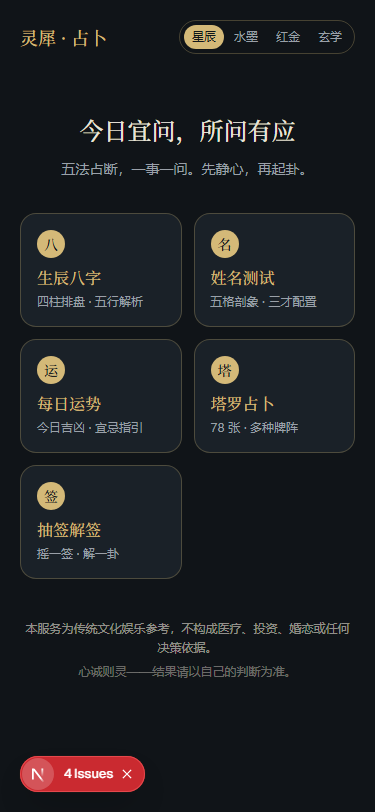
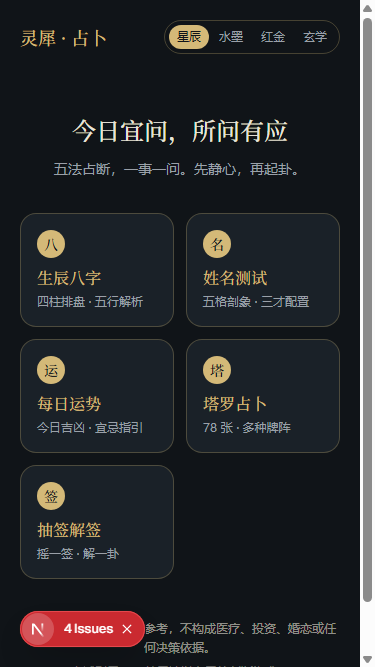
docs: 阶段4 收尾——CHANGELOG/L13 教训同步 + 移动端/分享按钮验证截图
- 完善 CHANGELOG：阶段 4 描述细化、L10 修正为 L13（PowerShell 关闭 safe-delete shim）
- NOTEBOOK/progress.md 与 learnings.md（L13）已同步
- 新增移动端验证截图：s4-{home,bazi,name,daily,tarot,lottery}-mobile*.png
- 新增分享按钮验证截图：s4-before-share.png / s4-after-share.png

diff --git a/CHANGELOG.md b/CHANGELOG.md
@@ -10,10 +10,10 @@
 - 项目初始化：Git 仓库（master 分支）、工程骨架、工作区记忆结构（2026-08-31）
 - Next.js 16 脚手架（TypeScript / Tailwind 4 / App Router / ESLint），静态导出配置（2026-08-31）
 - GitHub 私有仓库 diviner 创建并推送（commit 4a089ca，2026-08-31）
-- 阶段 1 设计系统：4 套主题（暗夜星辰/禅意水墨/国潮红金/赛博玄学）+ 首页 + 主题切换器 + 浏览器截图验证（commit b8a594d，2026-08-31）
+- 阶段 1 设计系统：4 套主题（暗夜星辰/禅意水墨/国潮红金/赛博玄学）+ 首页 + 主题切换器（桌面完整标签 / 移动端 2 字短标签）+ 浏览器截图验证（commit b8a594d，2026-08-31）
 - 阶段 2 占卜引擎：八字/姓名/每日运势/塔罗/抽签五引擎 + 内容库（752 字笔画、78 张塔罗、40 支签、12 生肖）+ 48 个 Vitest 单元测试 + 子代理交叉验收（commit 78f6901，2026-08-31）
 - 阶段 3 五玩法页面：5 个 `src/app/{bazi,name,daily,tarot,lottery}/page.tsx` + 4 个公共组件（PageShell/Field/Button/ResultCard） + globals.css 动画体系（wb-fade-up / wb-pop / wb-flip / wb-shake）+ 浏览器真实交互逐页验证截图（commit 9e724a1，2026-08-31）
-- 阶段 4 打磨：SEO 完整化（layout.tsx 全站 metadata + 5 个玩法 layout.tsx 页级 title/description/og:url + sitemap.xml + robots.txt + favicon.svg）、ShareButton 组件（Web Share API + clipboard fallback + 失败反馈）、prefers-reduced-motion 关闭动画、PageShell + 首页 footer 措辞优化（明确不构成医疗/投资/婚恋/决策依据）、ThemeToggle 移动端 2 字短标签适配、Viewport 配置 + 移动端 375px 逐页截图验证（commit 待定，2026-08-31）
+- 阶段 4 打磨：SEO 完整化（layout.tsx 全站 metadata + 5 个玩法目录级 server layout.tsx 页级 title/description/og:url + `sitemap.xml` + `robots.txt` + `favicon.svg`）、ShareButton 组件（Web Share API + clipboard fallback + 失败反馈）、`prefers-reduced-motion` 关闭动画、PageShell + 首页 footer 免责声明措辞优化、Viewport 配置 + 移动端 375px 逐页截图验证 + 分享按钮真实点击验证（commit 待定，2026-09-01）
 
 ### 修复
 
@@ -24,5 +24,12 @@
 ### 变更
 
 - .gitignore 增加 `/resources/tmp_*` 与 `/resources/shots/*-debug-*` 规则，本地排查临时文件不入库（2026-08-31）
-- 主题注册表新增 `short` 字段（2 字移动端标签）；ThemeToggle 用 sm:hidden / sm:inline 双标签切换（2026-08-31）
-- layout.tsx 新增 viewport（device-width + theme-color 暗/亮）+ 完整 metadata（title template / description / keywords / authors / robots / openGraph / twitter / icons / applicationName），sitemap.ts 与 robots.ts 增加 `export const dynamic = "force-static"` 适配 `output: export` 模式（2026-08-31）
+- layout.tsx 新增 viewport（device-width + theme-color 暗/亮）+ 完整 metadata（title template / description / keywords / authors / robots / openGraph / twitter / icons / applicationName），5 个玩法目录新增 server layout.tsx 提供独立 title/description（2026-09-01）
+
+## 教训索引
+
+- L1（2026-08-31）：初始化/恢复项目前必须先读 NORMS + AGENTS（NOTEBOOK/learnings.md）
+- L7（2026-08-31）：safe-delete 拦截 Node fs + bash rm，批量删除 >50 触发 guard（NOTEBOOK/learnings.md）
+- L8（2026-08-31）：agent-browser 自带 Chromium 启动失败时，手动 CDP Chrome + `agent-browser connect` 接管（NOTEBOOK/learnings.md）
+- L9（2026-08-31）：3D 翻牌动画优先用 CSS transition 替代 keyframe animation（NOTEBOOK/learnings.md）
+- L10（2026-09-01）：Bash 层无法关闭 safe-delete shim，PowerShell 中 `$env:CODEBUDDY_SAFE_DELETE_ENABLED='0'` 可让 Node shim 失效，用于构建前干净目录（NOTEBOOK/learnings.md）
